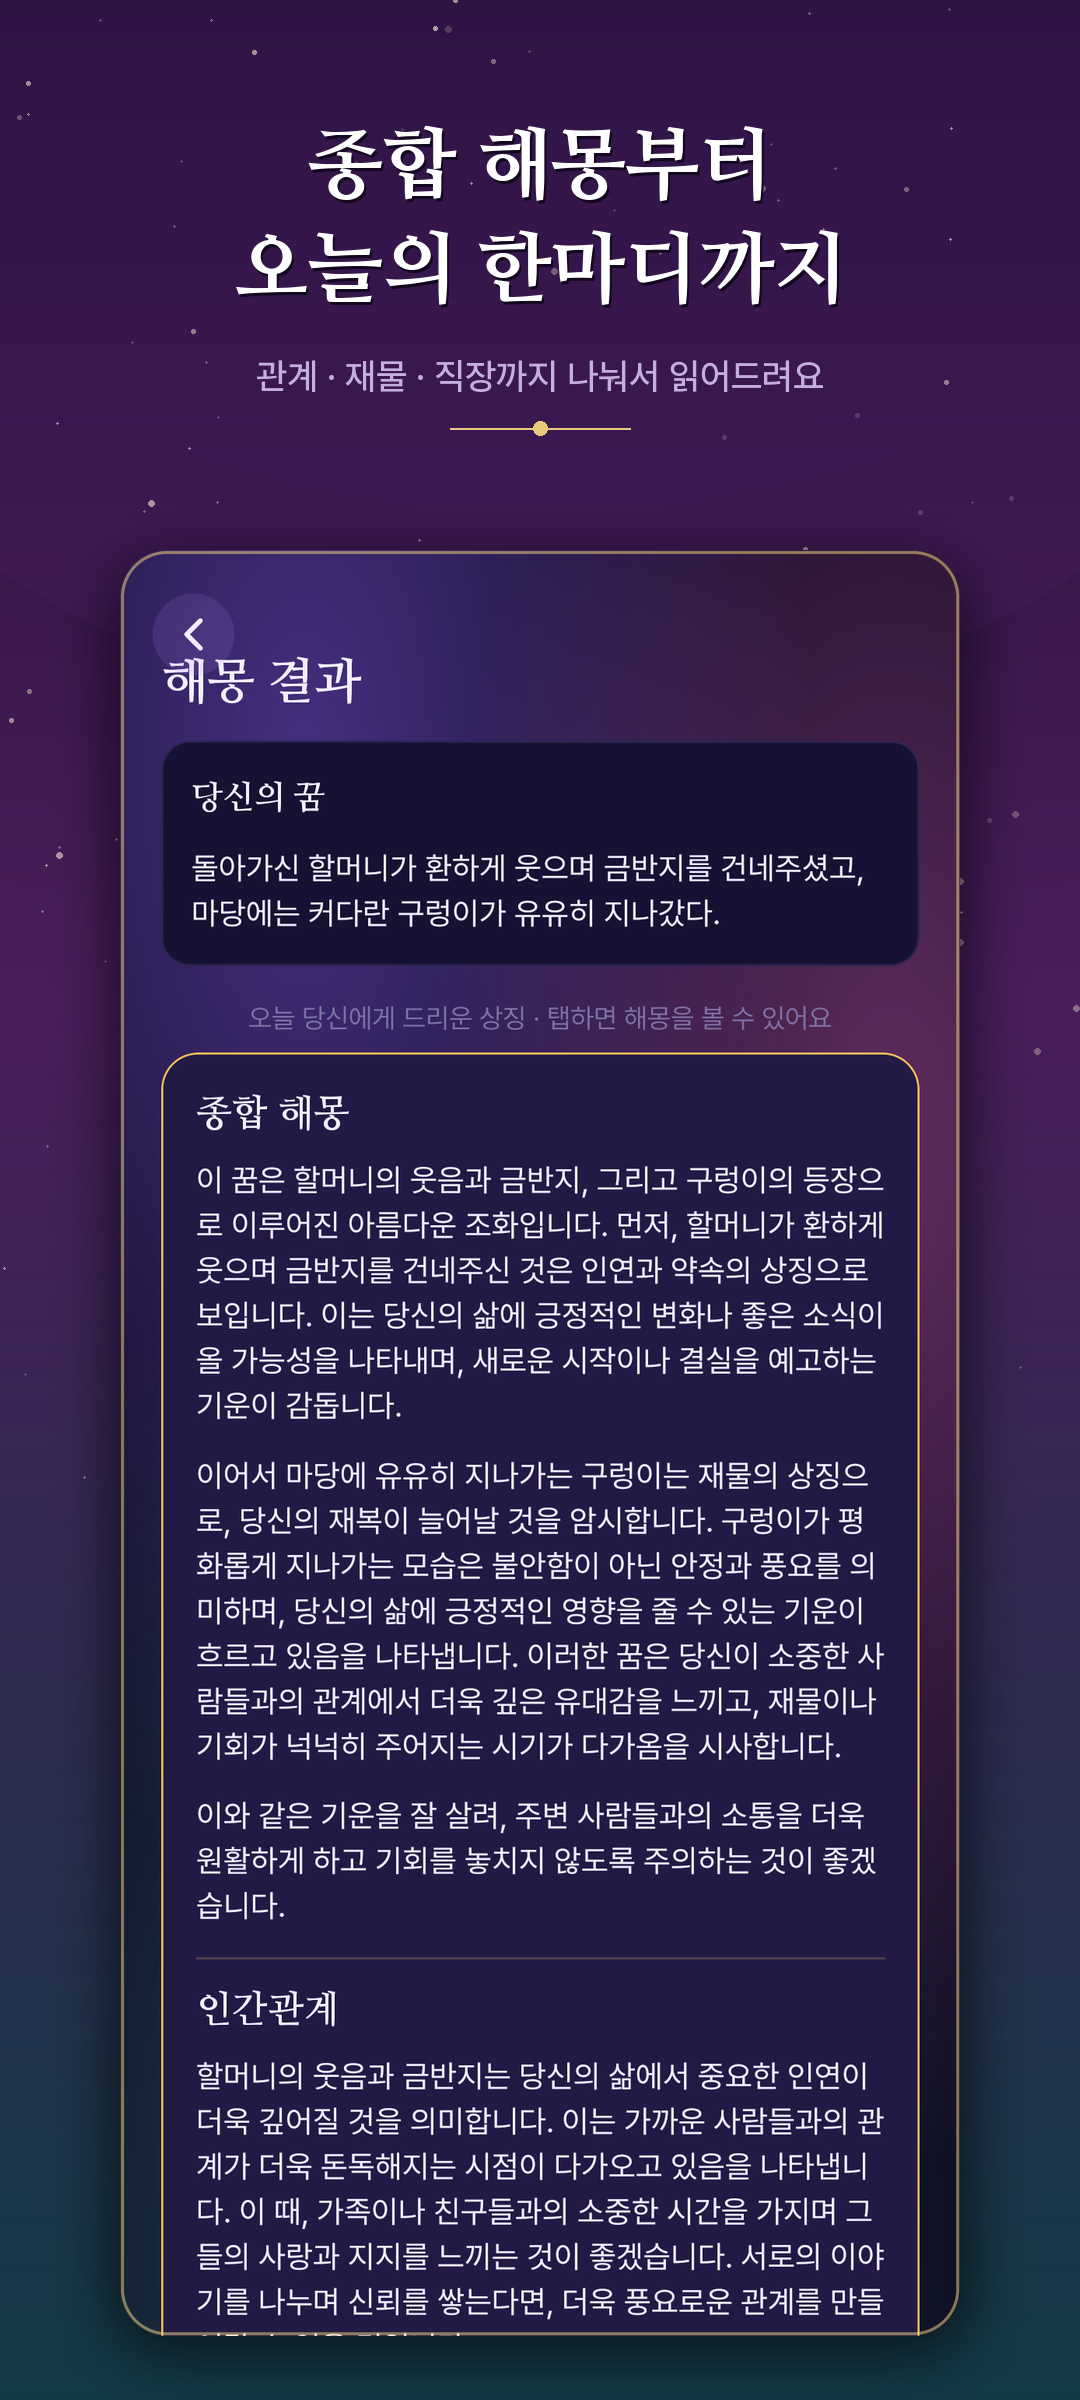
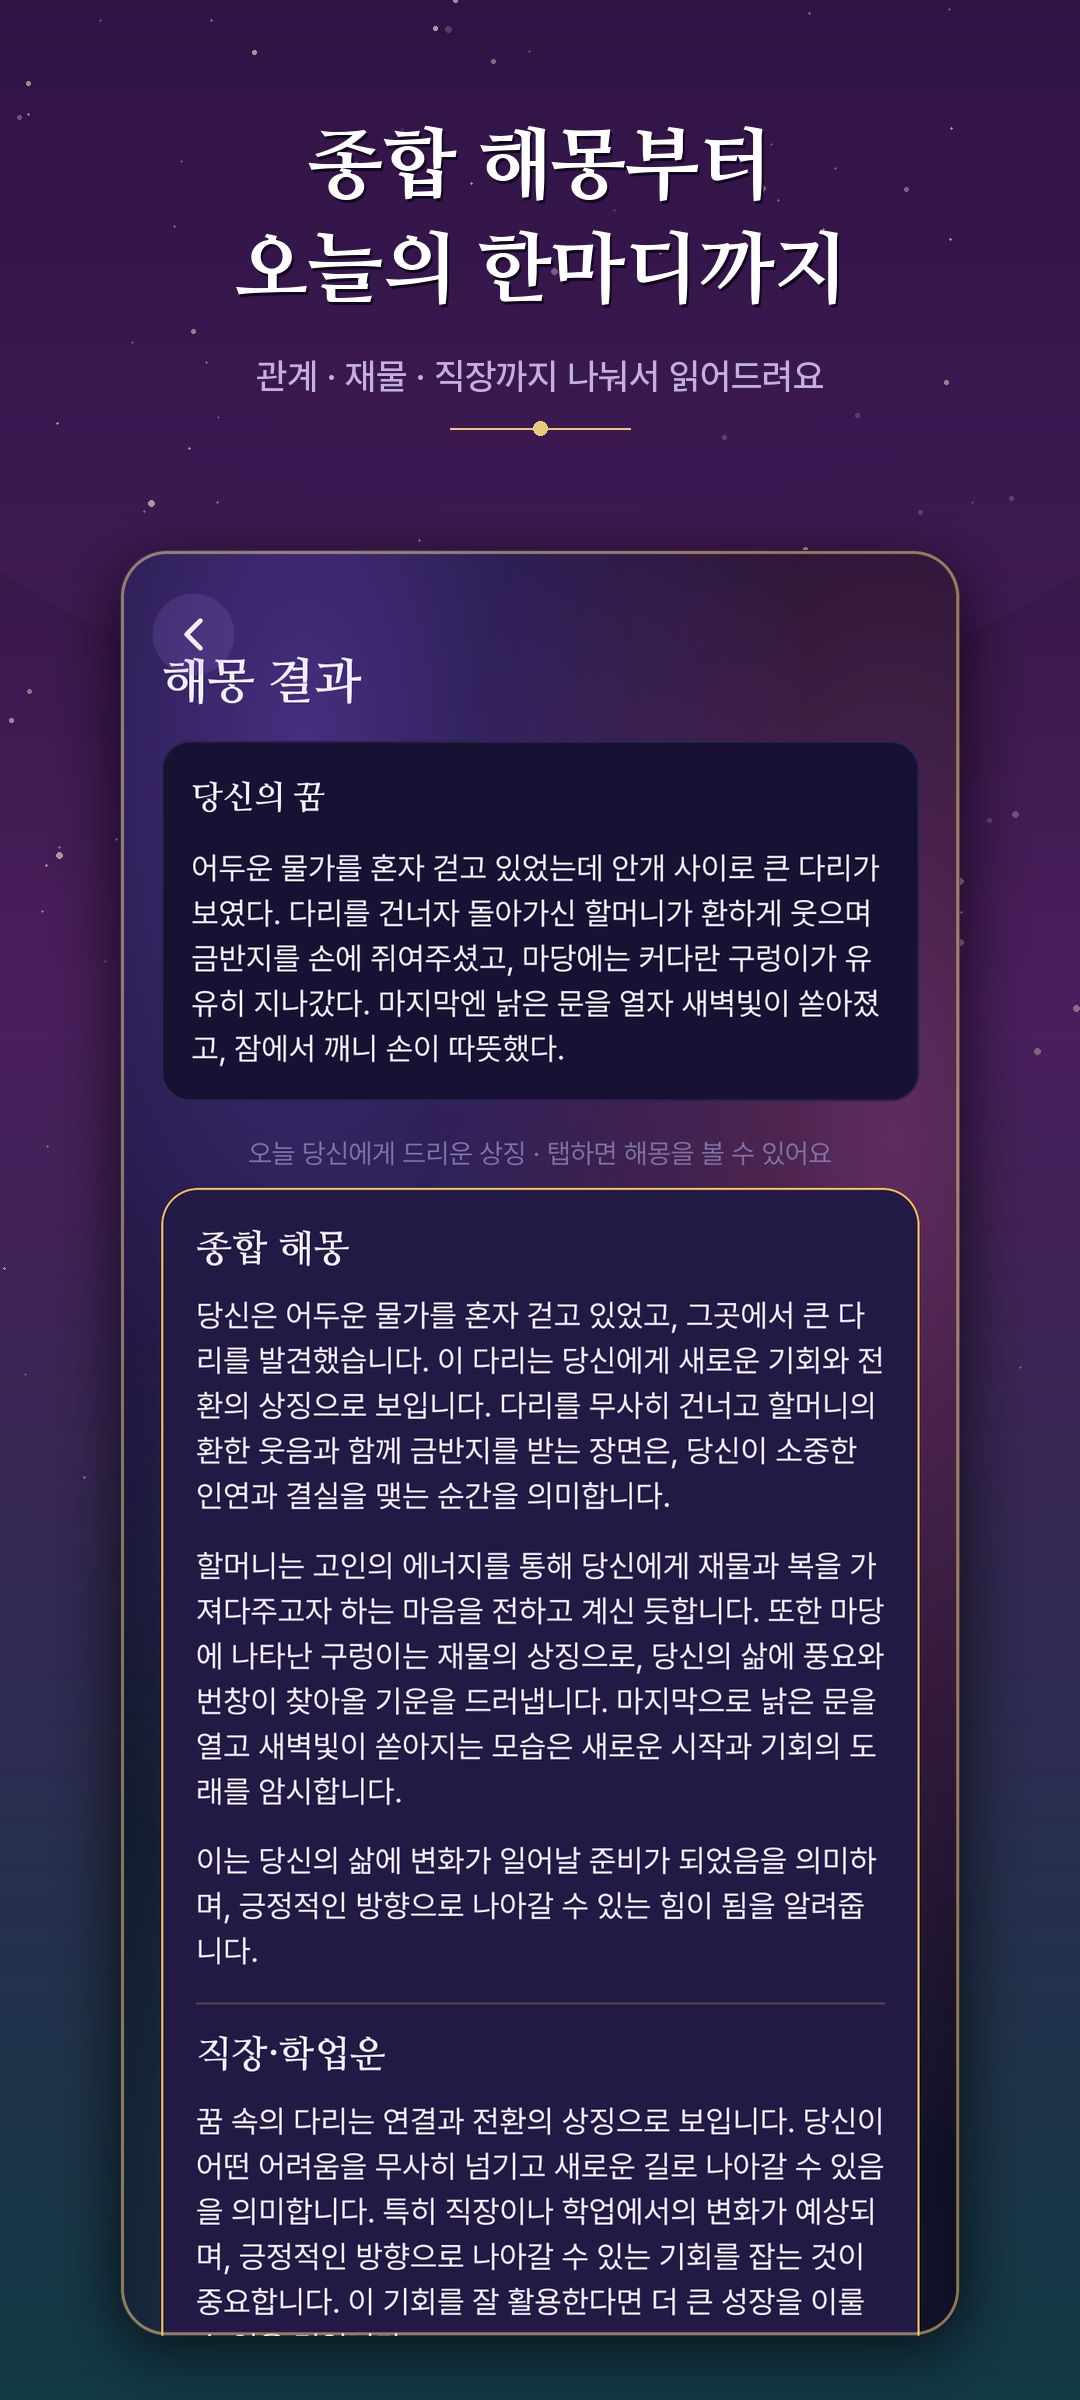
chore(store-assets): 앱 변경 반영해 스크린샷 재생성 + 인수인계 문서
- raw 5장을 새 앱 화면으로 재캡처(긴 꿈 142자 입력, '꿈 기록' 헤더,
  키워드 의미 병기). 꿈은 장면이 4개인 한 건으로 통일했고 실제 /reading을
  태워 '다리(BRIDGE)' 카드를 받았다.
- 홈 스크린샷 문구를 앱 변경에 맞춰 교체("긴 꿈도 통째로, 장면마다 풀어드려요").
- docs/HANDOFF.md 신규 — 다른 PC에서 이어받는 절차. .env가 git에 없다는 점,
  에뮬레이터 한글 입력 우회법, 남은 수동 작업을 적었다.
- README의 오래된 설명 수정: 흐름은 '문장 분리'가 아니라 /reading 1회이고,
  삭제된 /embed·/interpret·/summary 언급을 걷어냈다.
  OPENAI_API_KEY가 루트 .env라는 점도 명시.

Changed region(s): [[0.1528, 0.3438, 0.8556, 0.9688]]

diff --git a/scripts/gen-store-screenshots.py b/scripts/gen-store-screenshots.py
@@ -46,8 +46,8 @@ SHOTS = [
     {
         "out": "screenshot-2-home.png",
         "raw": "2-home.png",
-        "headline": ["꿈을 적으면,", "바로 풀어드려요"],
-        "sub": "텍스트로 쓰거나 음성으로 들려주세요",
+        "headline": ["긴 꿈도 통째로,", "장면마다 풀어드려요"],
+        "sub": "한 줄이든 열 줄이든 · 텍스트로도 음성으로도",
     },
     {
         "out": "screenshot-3-diary-cards.png",
@@ -59,7 +59,7 @@ SHOTS = [
         "out": "screenshot-4-stats.png",
         "raw": "4-stats.png",
         "headline": ["내 꿈의 흐름을", "한눈에"],
-        "sub": "자주 등장한 상징과 기록 추이",
+        "sub": "자주 등장한 상징과 그 뜻, 그리고 기록 추이",
     },
     {
         "out": "screenshot-5-card.png",

diff --git a/docs/HANDOFF.md b/docs/HANDOFF.md
@@ -1,0 +1,90 @@
+# 다른 PC에서 이어서 작업하기
+
+이 브랜치(`worktree-store-screenshots`)를 다른 컴퓨터에서 그대로 이어받는 방법.
+2026-07-28 기준.
+
+## 1) 지금 어디까지 되어 있나
+
+- **앱 수정 3건 완료** (에뮬레이터 실기 확인 + `npx tsc --noEmit` 통과)
+  - 홈 꿈 입력: 긴 꿈을 통째로 받는다는 점이 드러나게 개편
+    (여러 장면짜리 예시 문구, 입력창 220dp, 글자 수 카운터, 특징 칩 3개,
+    "인간관계 · 재물운 · 직장·학업운 · 건강운 · 주의운" 안내)
+  - 꿈 기록 화면: 제목이 상태바에 잘리던 것 수정(`paddingTop: 56`), `꿈기록` → `꿈 기록`
+  - 통계 "이번 달의 꿈 키워드": 카드 이름 옆에 의미 병기 — `고치 (변화 · 전환 · 성장통)`
+- **스토어 폰 스크린샷 5장 교체 완료** — 위 변경이 반영된 새 캡처로 다시 만듦
+- **PR은 아직 없다.** 작업한 환경에 `gh` CLI가 없었다.
+  https://github.com/MS-Won/Monkey/pull/new/worktree-store-screenshots 에서 만들면 된다.
+
+## 2) 새 PC 세팅
+
+```sh
+git clone https://github.com/MS-Won/Monkey.git
+cd Monkey
+git checkout worktree-store-screenshots
+npm install
+```
+
+### ⚠ `.env`는 git에 없다 (반드시 직접 만들 것)
+
+저장소 루트에 `.env`를 만들고 두 값을 넣는다. `backend/.env`가 아니라 **루트**다.
+
+```
+SERVER_BASE_URL=https://monkey-backend-htu8.onrender.com
+OPENAI_API_KEY=<백엔드용 키>
+```
+
+`SERVER_BASE_URL`이 없으면 번들링 단계에서 `@env` 임포트가 깨진다.
+로컬 백엔드를 쓸 거면 `http://10.0.2.2:5001`로 바꾸되, **그 상태로 디버그 앱을 설치하면
+앱이 로컬 주소를 계속 들고 있으니** 나중에 로컬 서버를 내리면 해몽이 실패한다.
+
+### 실행
+
+```sh
+npm start          # Metro
+npm run android    # 에뮬레이터에 설치
+```
+
+## 3) 스크린샷을 다시 만들려면
+
+Python + Pillow만 있으면 된다(에뮬레이터 불필요).
+
+```sh
+pip install pillow
+python scripts/gen-store-screenshots.py
+```
+
+- 문구만 바꾸려면 `scripts/gen-store-screenshots.py`의 `SHOTS`를 고치고 다시 실행.
+- 화면을 새로 찍으려면 `docs/release/store-assets/raw/N-*.png`를 덮어쓰고 다시 실행.
+- 자세한 규칙은 `docs/release/store-assets/README.md`.
+
+### 에뮬레이터에서 한글 입력이 안 될 때
+
+`adb shell input text`는 한글을 못 넣는다. 호스트 클립보드를 거친다.
+
+```powershell
+Set-Clipboard -Value "여기에 한글 꿈"
+```
+```sh
+adb shell input tap <입력창 좌표>
+adb shell input keyevent 279   # 붙여넣기
+adb shell input keyevent 111   # ESC — 키보드 닫기
+```
+
+`keyevent 4`(뒤로가기)를 두 번 누르면 앱이 종료된다. 키보드는 ESC로 닫을 것.
+
+## 4) git worktree에서 돌릴 때
+
+`.claude/worktrees/*`에는 `node_modules`가 없다. `metro.config.js`가 이 경우를 감지해
+원본 체크아웃의 `node_modules`를 빌려 쓰도록 되어 있다(원본에서 실행하면 아무 영향 없음).
+`.env`는 gitignore 대상이라 워크트리에도 따로 복사해야 한다.
+
+## 5) 남은 일 — 전부 사용자 브라우저 수동 작업
+
+`docs/release/play-console-checklist.md`에 복붙용 치트시트가 있다.
+
+1. **Play Console 스토어등록정보 → 폰 스크린샷 교체.** 예전 것을 지우고
+   `2-home` → `5-card` → `6-interpretation` → `3-diary-cards` → `4-stats` 순서로 5장 업로드.
+2. **비공개 테스트에 AAB 업로드** — `android/app/build/outputs/bundle/release/app-release.aab`
+   (versionCode 3). ⚠ 이번 앱 수정은 이 AAB에 **들어 있지 않다.** 반영하려면
+   versionCode를 4로 올리고 다시 빌드해야 한다.
+3. **Render starter 플랜 결제** — `/reading` 응답이 콜드스타트 포함 60~70초까지 걸린다.

diff --git a/README.md b/README.md
@@ -2,7 +2,7 @@
 
 한국 전통 해몽(꿈 해석) 일기 앱. 타로/점술/상담 앱이 아니며, 예측이나 과장된 주장을 하지 않습니다.
 
-흐름: 꿈 입력 → 문장 분리 → 해몽 → 종합 요약 → 저장/통계
+흐름: 꿈 입력(길이 제한 없음) → 해몽 1회 요청(`/reading`) → 종합 해몽 + 카테고리별 해몽 → 저장/통계
 
 ## 구조
 
@@ -13,7 +13,10 @@
 
 - React Native 0.79.2 + TypeScript, Android 우선(iOS는 추후)
 - 로컬 저장: `react-native-sqlite-storage`(`dreams.db` — `cache`, `dream_diary` 테이블), 프로필은 `@react-native-async-storage/async-storage`
-- 백엔드: `backend/keyword_server.py` (Flask, 포트 5001) — KoNLPy Okt로 문장 분리 여부 판단, OpenAI GPT로 해몽/임베딩/요약 생성. OpenAI API 키는 백엔드에만 존재하며 프론트엔드에는 노출되지 않음.
+- 백엔드: `backend/keyword_server.py` (Flask, 포트 5001) — 엔드포인트는 `/reading` 하나뿐이다.
+  꿈 전문을 그대로 받아 전통 해몽 사전(`dream_dictionary.json` + KoNLPy Okt 매칭)으로 근거를 만들고,
+  OpenAI GPT 1회 호출로 종합 해몽과 카테고리별 해몽을 생성한다.
+  OpenAI API 키는 백엔드에만 존재하며 프론트엔드에는 노출되지 않음.
 
 ## 개발 환경 실행
 
@@ -35,7 +38,8 @@ pip install -r requirements.txt   # 없다면 flask, python-dotenv, requests, ko
 python keyword_server.py
 ```
 
-`backend/.env`에 `OPENAI_API_KEY`를 설정해야 `/embed`, `/interpret`, `/summary`가 동작합니다. 기본적으로 `debug=False`로 실행되며, 필요할 때만 `FLASK_DEBUG=1` 환경변수로 디버그 모드를 켤 수 있습니다.
+**`OPENAI_API_KEY`는 `backend/.env`가 아니라 저장소 루트 `.env`에 넣어야 합니다**(자주 틀리는 부분).
+이 값이 있어야 `/reading`이 동작합니다. 기본적으로 `debug=False`로 실행되며, 필요할 때만 `FLASK_DEBUG=1` 환경변수로 디버그 모드를 켤 수 있습니다.
 
 ## 화면 구성
 
